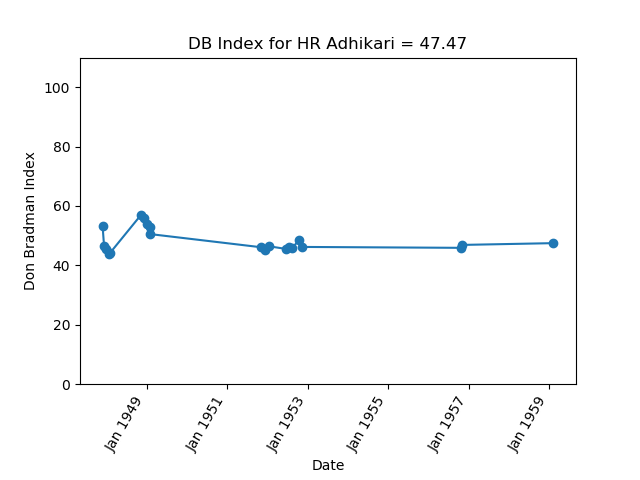
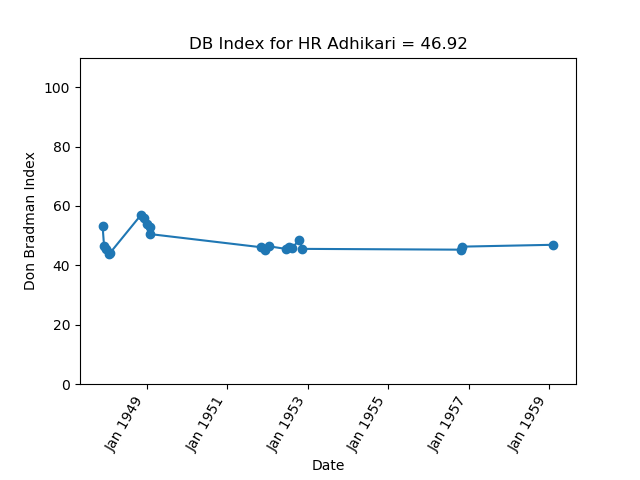
Update stuff

Changed region(s): [[0.2812, 0.0625, 0.625, 0.125], [0.4688, 0.5, 0.875, 0.5312], [0.6562, 0.0625, 0.7188, 0.125]]

diff --git a/DBRunner_Country.py b/DBRunner_Country.py
@@ -56,15 +56,16 @@ for PConstructor in PlayerListSoupLi:
 # Pick player
 print(f"Found {len(PlayerNameAll)!s} players for {PlayerTeamName.title()!s}")
 
-# Open DB database
-with open('Database.json', 'r') as fp:
-    Database = json.load(fp)
-
-# Find DB index
 for PlayerName, PlayerNum in PlayerNameAll.items():
+    # Open DB database
+    with open('Database.json', 'r') as fp:
+        Database = json.load(fp)
+
+    # Find DB index
     DB = DBCalculator(PlayerName, PlayerTeamName, PlayerNum)
     Database[PlayerTeamName.title()][PlayerName] = DB
 
-# Save DB database
-with open('Database.json', 'w') as fp:
-    json.dump(Database, fp)
+    # Save DB database
+    with open('Database.json', 'w') as fp:
+        json.dump(Database, fp)
+

diff --git a/DBFinder.py b/DBFinder.py
@@ -202,6 +202,6 @@ def DBCalculator(PlayerName, PlayerTeamName, PlayerNum):
     plt.gcf().axes[0].xaxis.set_major_formatter(PlotFormat)
     plt.gcf().autofmt_xdate(rotation=60)
     plt.savefig(f"Images/{PlayerTeamName.title()}/{PlayerName}.png")
-    plt.show()
+    #plt.show()
     plt.gcf().clear()
     return DB
